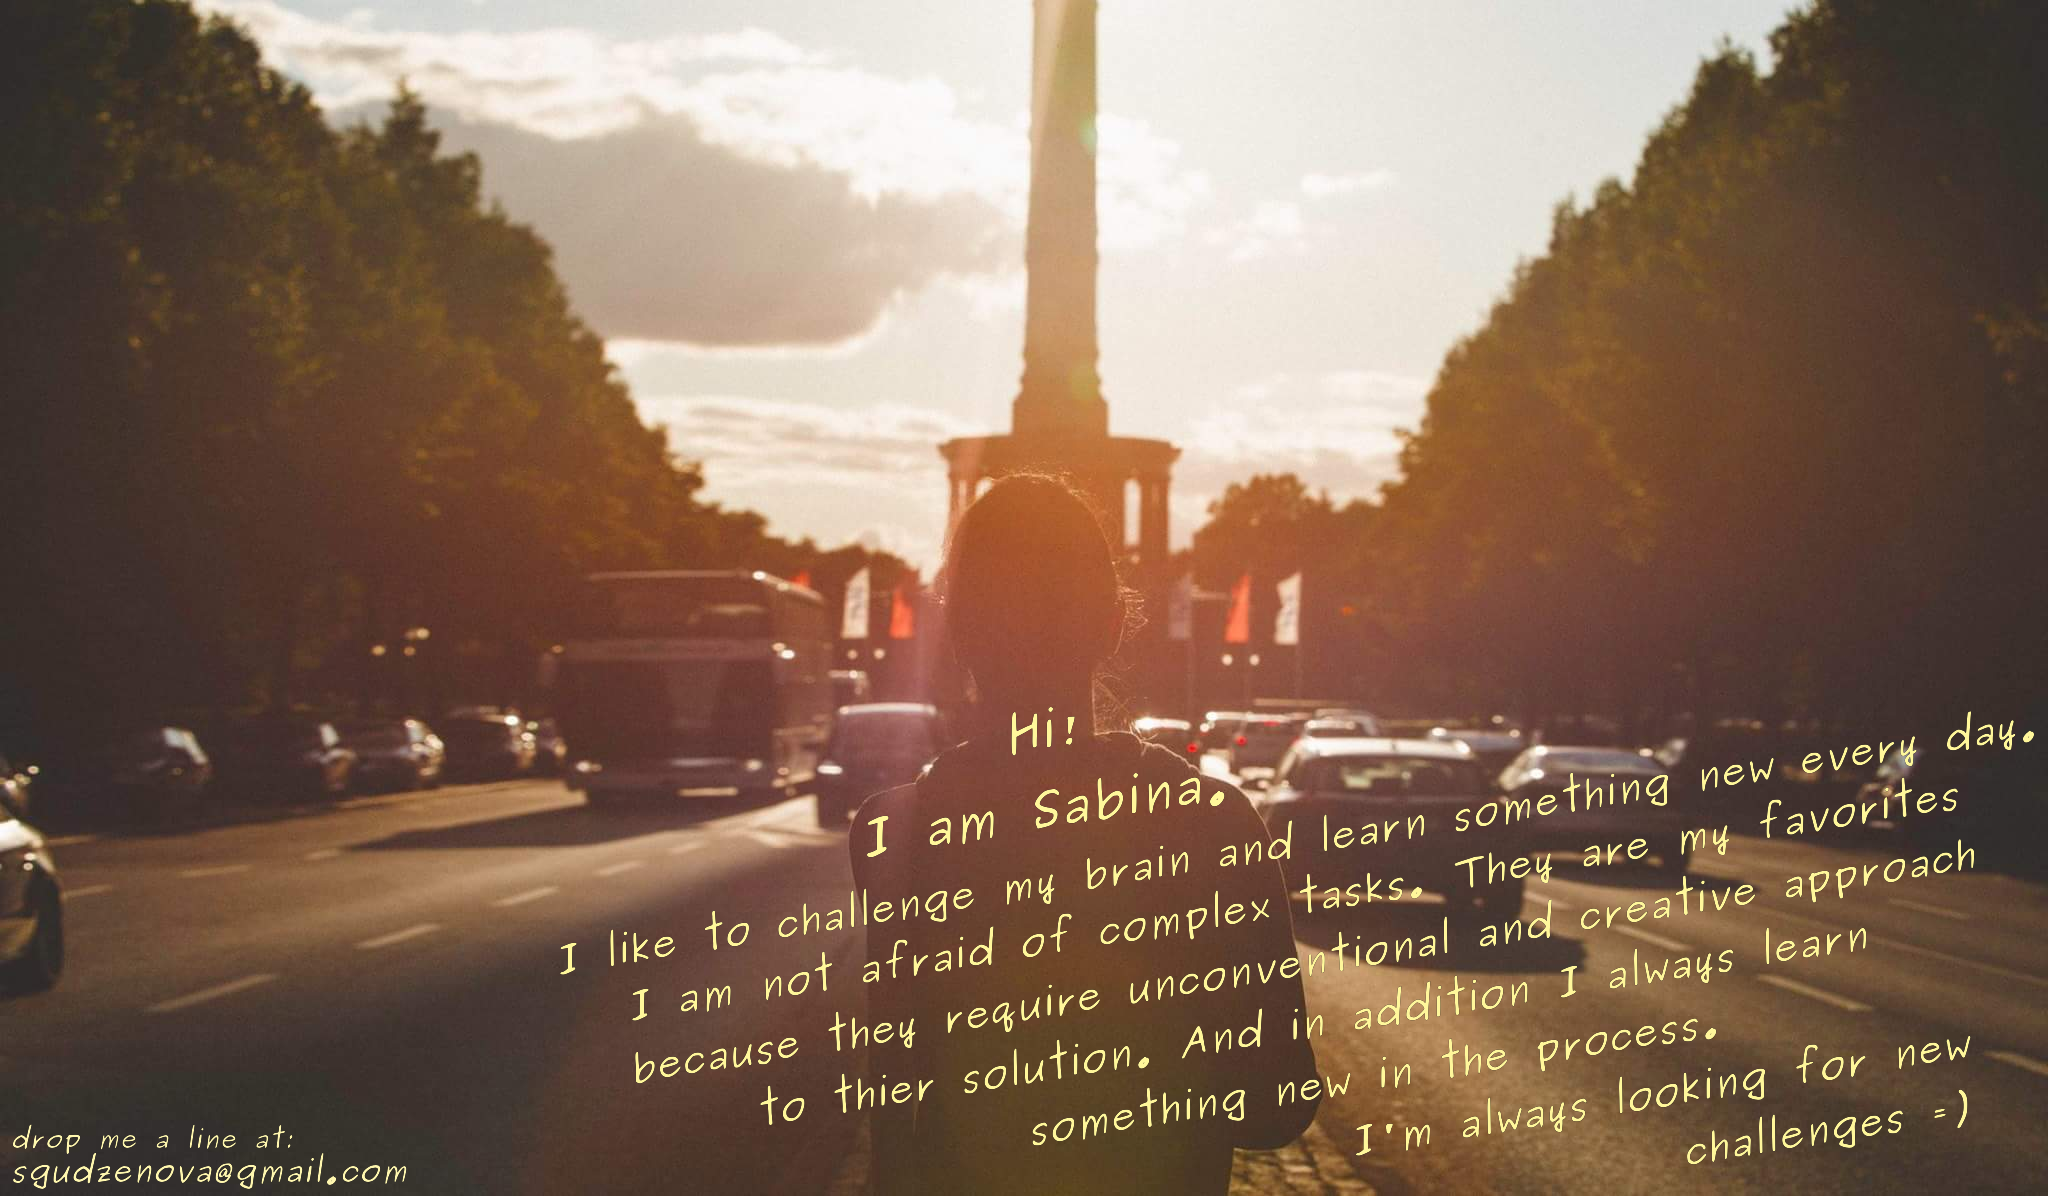
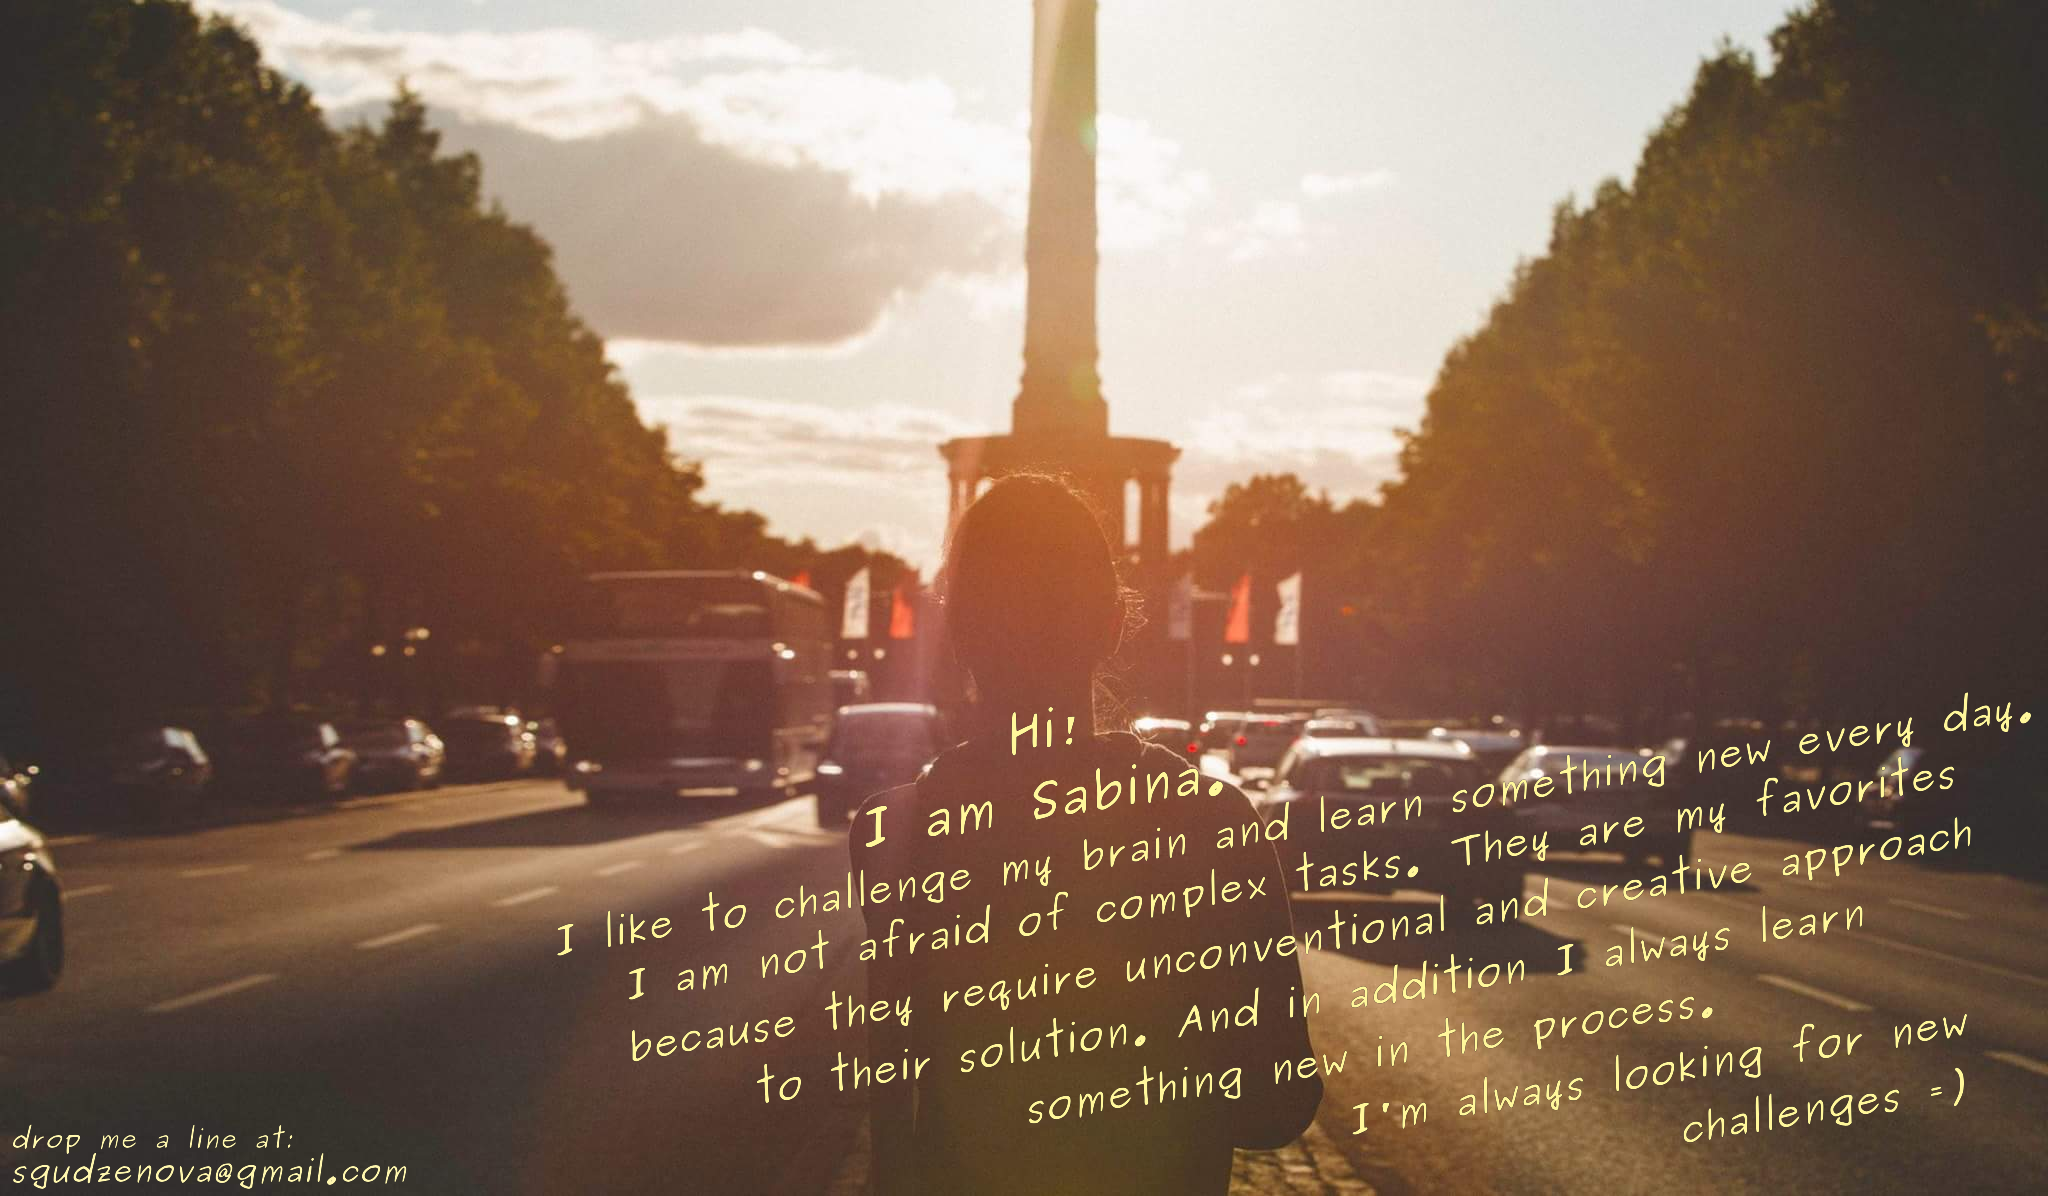
Readme

Changed region(s): [[0.25, 0.5878, 1.0, 0.959]]

diff --git a/README.md b/README.md
@@ -1,1 +1,16 @@
-# saby-gaby
+### Hey, I am Sabina
+![My card](./card.png)
+
+- I like to challenge my brain and learn something new every day.
+
+- I am not afraid of complex tasks. They are my favorites because they require unconventional and creative approach to their solution. And in addition I always learn something new in the process.
+
+-  I'm currently learning Web Development at Digital Career Institute (December 2021 - February 2023)
+
+- I speak 🇩🇪 german, 🇬🇧 english and 🇧🇬 Bulgarian.
+<br><br>
+
+### I am always looking for new challenges
+<br>
+
+Want to contact me? ---> Drop me a line at: <sgudzenova@gmail.com>
